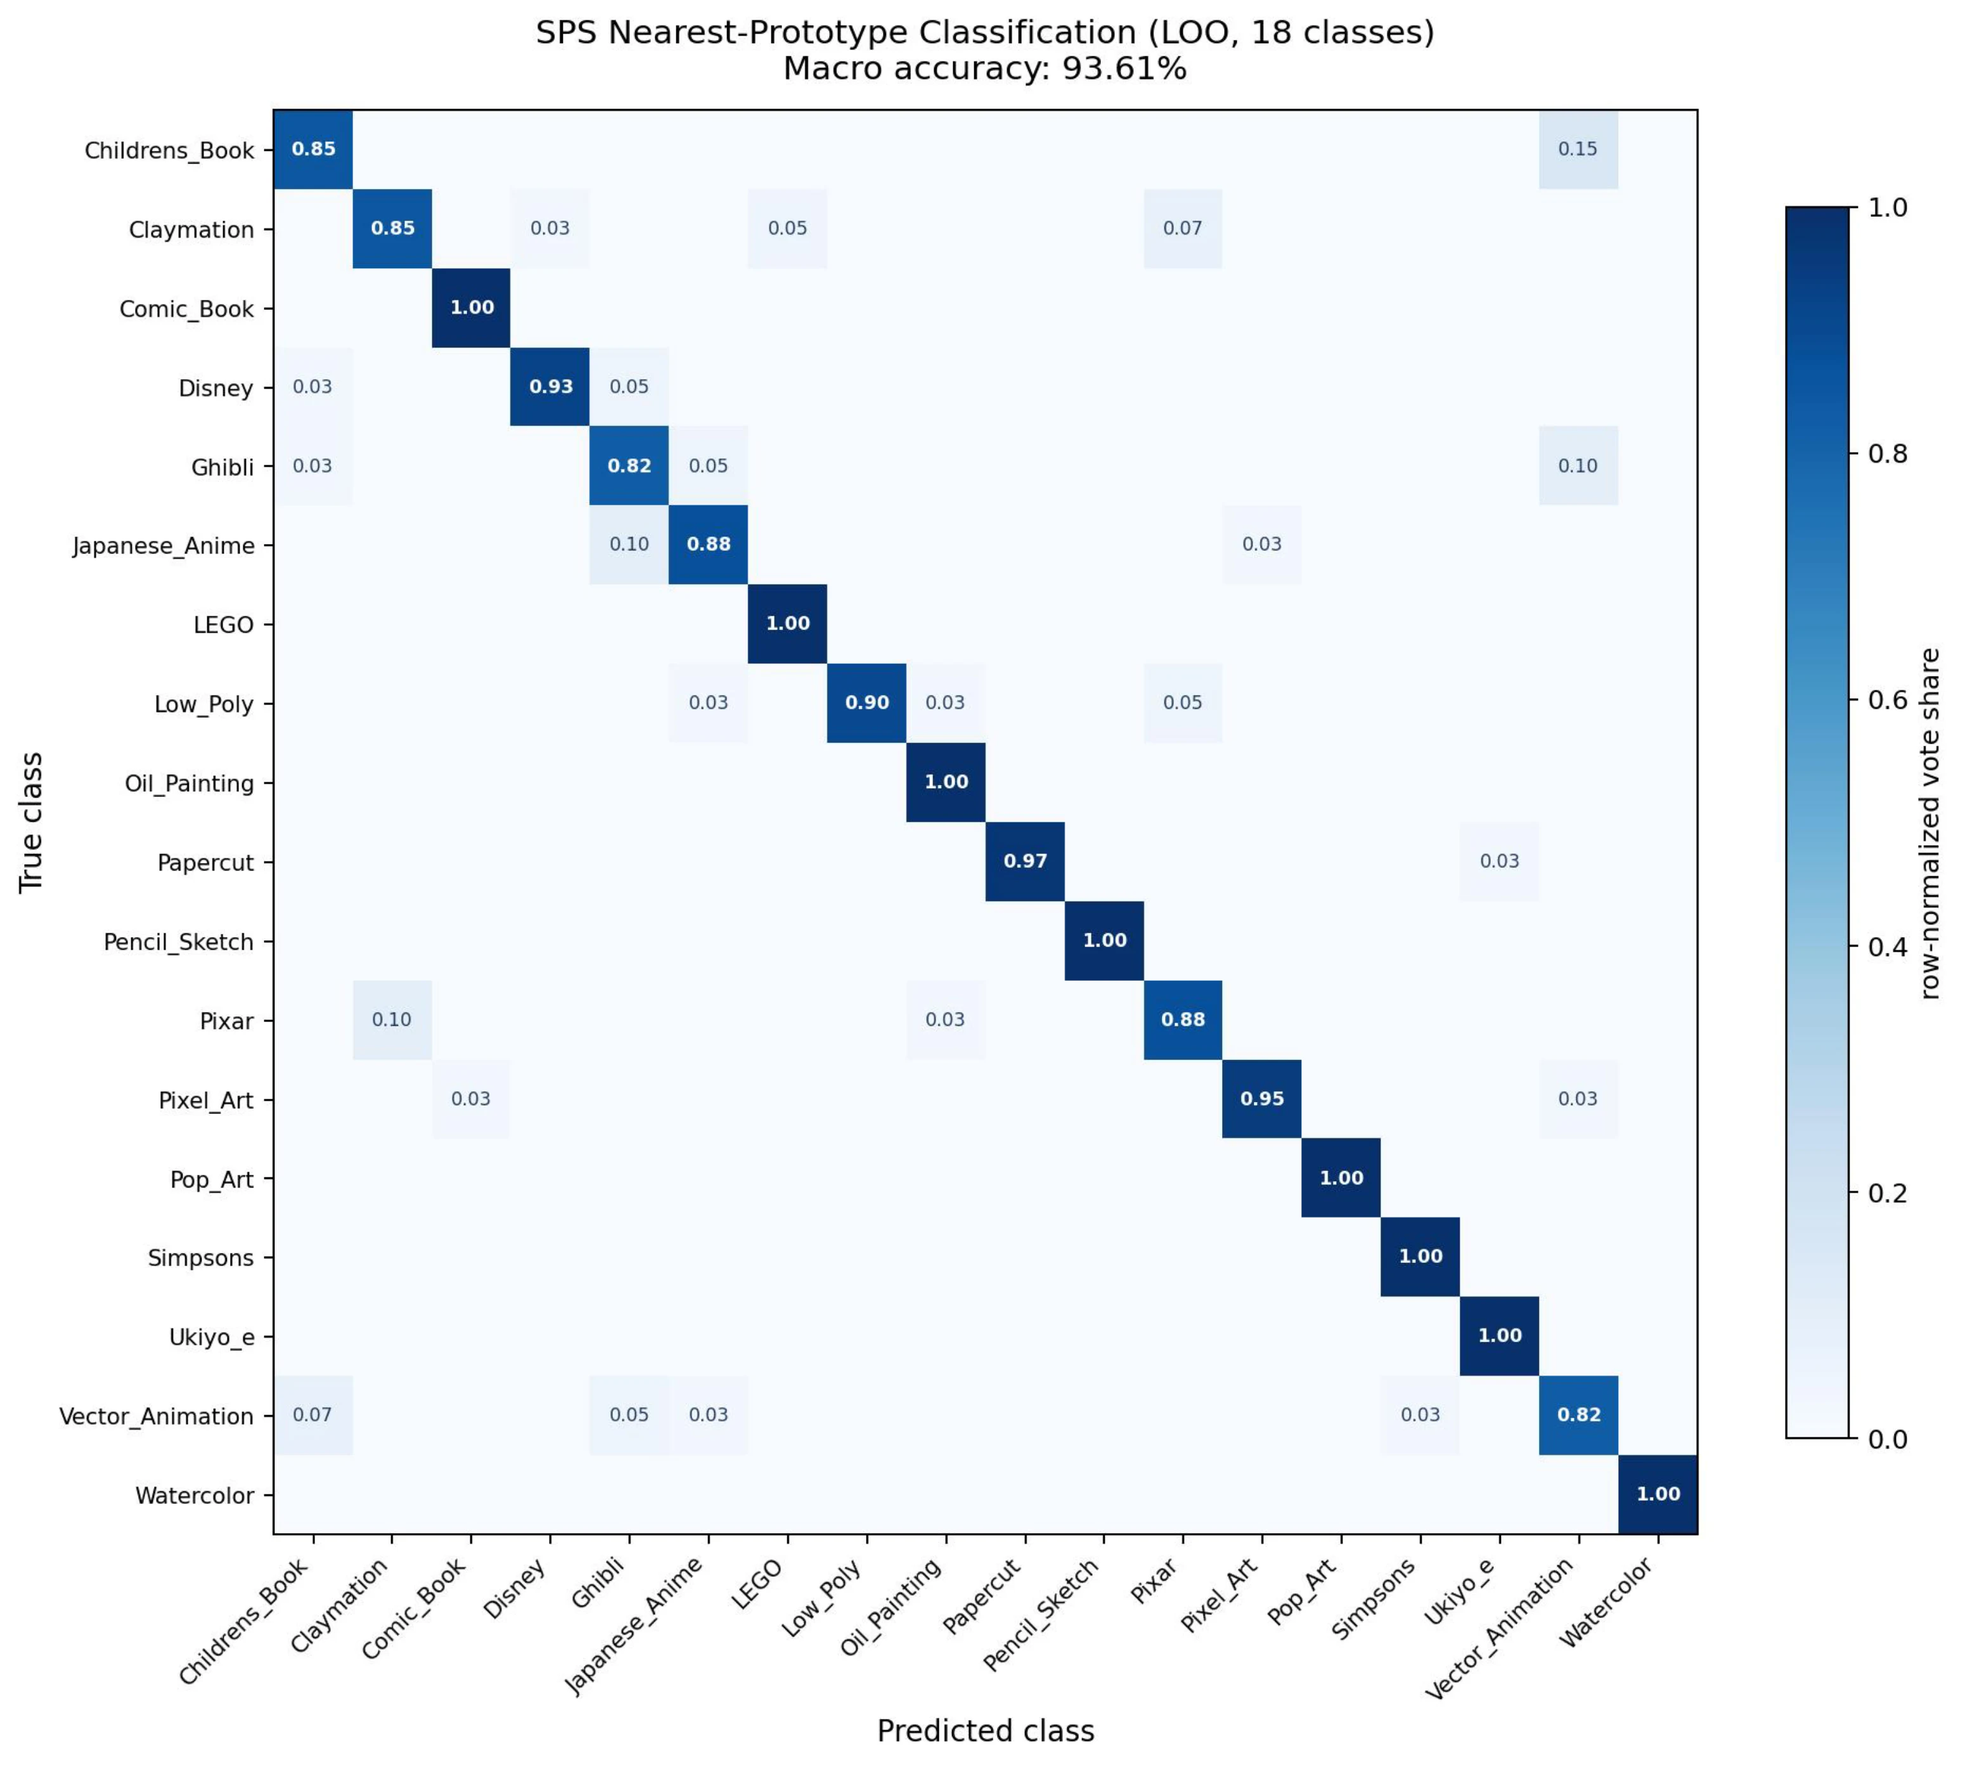
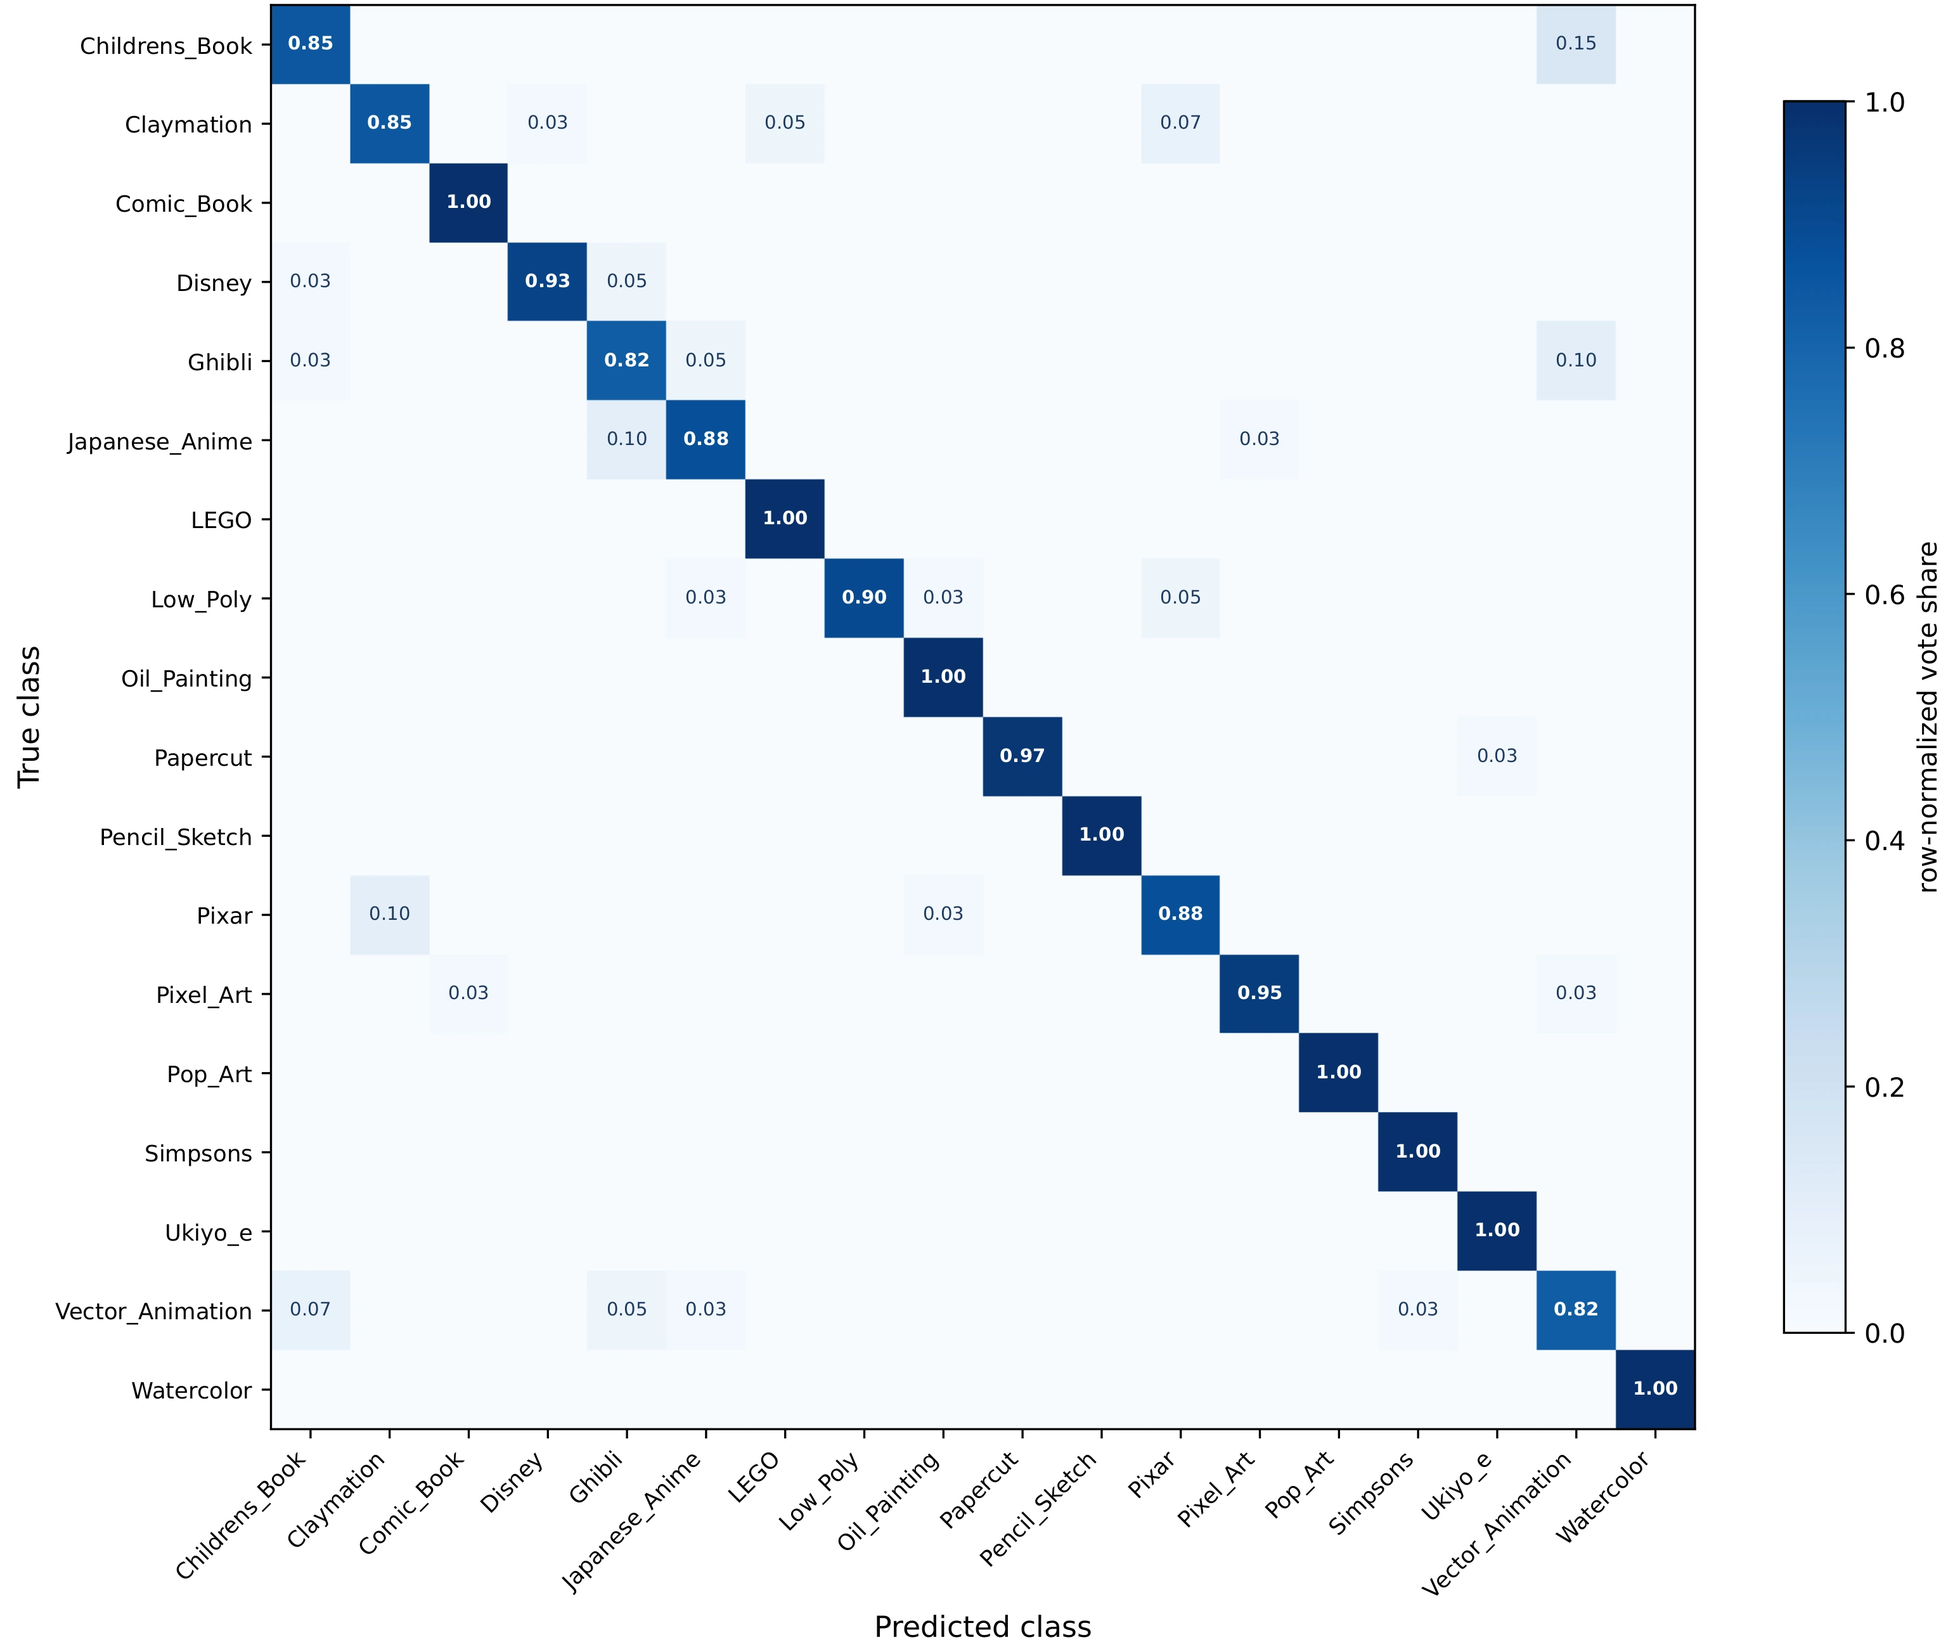
docs: update project page

diff --git a/docs/index.html b/docs/index.html
@@ -105,7 +105,7 @@
           </div>
           <figure class="paper-figure">
             <img src="static/images/figures/data_pipeline.webp" alt="Overview of the LociArt-100K data construction pipeline" loading="lazy" decoding="async">
-            <figcaption><strong>Figure 1.</strong> Source and object-removed videos are globally stylized and filtered, then combined through mask-guided matting to produce foreground- and background-stylized pairs for human verification.</figcaption>
+            <figcaption><strong>Data construction pipeline.</strong> Source and object-removed videos are globally stylized and filtered, then combined through mask-guided matting to produce foreground- and background-stylized pairs for human verification.</figcaption>
           </figure>
           <div class="metric-grid four-up">
             <article class="metric-card"><strong>100K</strong><span>720P video pairs</span><p>Source, mask, instruction, and locally stylized target.</p></article>
@@ -169,7 +169,7 @@
         <p class="section-intro">GRNStyle binds style identities to target regions and combines encoded mask features with explicit geometric support. Source evidence guides content preservation throughout refinement.</p>
         <figure class="paper-figure">
           <img src="static/images/figures/model_pipeline.webp" alt="Overview of GRNStyle" loading="lazy" decoding="async">
-          <figcaption><strong>Figure 2.</strong> (a) Polar style-aware masks bind styles to regions and support multi-region composition. (b) Anchored mask evidence and geometric support are combined with source features through block-wise gating.</figcaption>
+          <figcaption><strong>Overview of GRNStyle.</strong> (a) Polar style-aware masks bind styles to regions and support multi-region composition. (b) Anchored mask evidence and geometric support are combined with source features through block-wise gating.</figcaption>
         </figure>
         <div class="method-grid">
           <article class="method-card">
@@ -205,11 +205,11 @@
               </tbody>
             </table>
           </div>
-          <p class="table-caption"><strong>Table 1.</strong> Component ablation of representation-geometry conditioning (RG) and polar style-aware masks.</p>
+          <p class="table-caption"><strong>Component ablation.</strong> Representation-geometry conditioning (RG) and polar style-aware masks.</p>
         </div>
         <figure class="paper-figure">
           <img src="static/images/figures/mask_conditioning_ablation.webp" alt="Mask-conditioning ablation" loading="lazy" decoding="async">
-          <figcaption><strong>Figure 3.</strong> Representation-geometry conditioning improves spatial localization over raw encoding, while the polar code improves style identity.</figcaption>
+          <figcaption><strong>Mask-conditioning ablation.</strong> Representation-geometry conditioning improves spatial localization over raw encoding, while the polar code improves style identity.</figcaption>
         </figure>
       </div>
     </section>
@@ -222,7 +222,7 @@
           <article class="metric-card"><strong>80</strong><span>source videos</span><p>Each with 81 aligned frames.</p></article>
           <article class="metric-card"><strong>84</strong><span>object-mask units</span><p>Some videos contain two selected subjects.</p></article>
           <article class="metric-card"><strong>168</strong><span>stylization cases</span><p>Foreground and background editing for every unit.</p></article>
-          <article class="metric-card"><strong>93.61%</strong><span>SPS validation</span><p>Macro-averaged nearest-prototype accuracy.</p></article>
+          <article class="metric-card"><strong>93.61%</strong><span>SPS validation</span><p>Macro-averaged video-level accuracy under leave-one-source-out validation.</p></article>
         </div>
         <div class="figure-pair prototype-pair">
           <figure class="paper-figure">
@@ -236,7 +236,7 @@
         </div>
         <div class="metric-grid six-up">
           <article class="metric-card"><strong>SPS</strong><span>style quality</span><p>Similarity to a class-specific prototype bank in CSD feature space.</p></article>
-          <article class="metric-card"><strong>CLIPT</strong><span>text alignment</span><p>Regional alignment between the edited region and the style instruction.</p></article>
+          <article class="metric-card"><strong>CLIPT</strong><span>text alignment</span><p>Regional alignment between the edited region and the canonical style phrase.</p></article>
           <article class="metric-card"><strong>PSNR</strong><span>preservation</span><p>Fidelity to the source outside the intended edit region.</p></article>
           <article class="metric-card"><strong>TC</strong><span>temporal consistency</span><p>Adjacent-frame CLIP feature similarity.</p></article>
           <article class="metric-card"><strong>Style</strong><span>VLM score</span><p>Style correctness, coverage, and cross-frame stability.</p></article>
@@ -284,18 +284,18 @@
                 <tr><th scope="row"><a class="method-link" href="https://github.com/bwchen05/RegionRoute" target="_blank" rel="noopener noreferrer">RegionRoute</a><sup>&ddagger;</sup></th><td>CVPR '26</td><td>0.317</td><td>0.491</td><td>0.154</td><td>0.183</td><td><u>29.38</u></td><td>13.17</td><td>0.955</td><td>2.41</td><td>2.75</td></tr>
                 <tr><th scope="row"><a class="method-link" href="https://github.com/iiiiiiiword/StyleGallery" target="_blank" rel="noopener noreferrer">StyleGallery</a><sup>*&dagger;&ddagger;</sup></th><td>CVPR '26</td><td>0.230</td><td>0.325</td><td>0.146</td><td>0.183</td><td>-</td><td>-</td><td>0.957</td><td>3.39</td><td><u>4.77</u></td></tr>
                 <tr><th scope="row"><a class="method-link" href="https://github.com/coinve200k/CoinVE-200K/tree/main/CoinVE-Edit" target="_blank" rel="noopener noreferrer">CoinVE-Edit</a></th><td>arXiv '26</td><td>0.248</td><td>0.251</td><td>0.153</td><td>0.159</td><td>20.71</td><td>16.76</td><td><u>0.983</u></td><td>3.11</td><td>3.93</td></tr>
-                <tr><th scope="row"><a class="method-link" href="https://seed.bytedance.com/zh/seedance2_5" target="_blank" rel="noopener noreferrer">Seedance 2.5</a></th><td>Jul. 2026</td><td>0.347</td><td>0.358</td><td><strong>0.173</strong></td><td><u>0.175</u></td><td>18.50</td><td>18.76</td><td><strong>0.984</strong></td><td>3.98</td><td>2.40</td></tr>
+                <tr><th scope="row"><a class="method-link" href="https://seed.bytedance.com/zh/seedance2_5" target="_blank" rel="noopener noreferrer">Seedance 2.5</a></th><td>Commercial</td><td>0.347</td><td>0.358</td><td><strong>0.173</strong></td><td><u>0.175</u></td><td>18.50</td><td>18.76</td><td><strong>0.984</strong></td><td>3.98</td><td>2.40</td></tr>
                 <tr><th scope="row"><a class="method-link" href="https://github.com/ali-vilab/VACE" target="_blank" rel="noopener noreferrer">VACE-1.3B</a> (our FT)</th><td>-</td><td><u>0.386</u></td><td><u>0.676</u></td><td>0.155</td><td><u>0.185</u></td><td>25.43</td><td>25.49</td><td>0.980</td><td><u>4.52</u></td><td>4.56</td></tr>
                 <tr class="highlight-row"><th scope="row">GRNStyle-2B (ours)</th><td>-</td><td><strong>0.407</strong></td><td><strong>0.705</strong></td><td><u>0.160</u></td><td><strong>0.199</strong></td><td>25.92</td><td><u>26.15</u></td><td><u>0.983</u></td><td><strong>4.62</strong></td><td>4.64</td></tr>
               </tbody>
             </table>
           </div>
-          <p class="table-caption"><strong>Table 2.</strong> Comparison on the LociArt Benchmark. fg/bg denote editing the target mask and its complement. <sup>&dagger;</sup> Direct mask-compositing methods omit PSNR because non-edited pixels are copied. <sup>&ddagger;</sup> Image-based methods. FT denotes local-stylization fine-tuning.</p>
+          <p class="table-caption"><strong>Benchmark comparison.</strong> fg/bg denote editing the target mask and its complement. <sup>*</sup> Training-free methods. <sup>&dagger;</sup> Direct mask-compositing methods omit PSNR because non-edited pixels are copied. <sup>&ddagger;</sup> Image-based methods. FT denotes local-stylization fine-tuning.</p>
         </div>
           <div class="result-highlights">
-            <div class="result-highlight"><strong>0.705</strong><span>SPS background</span><small>Best in Table 2</small></div>
-            <div class="result-highlight"><strong>0.199</strong><span>CLIPT background</span><small>Best in Table 2</small></div>
-            <div class="result-highlight"><strong>4.62</strong><span>VLM Style</span><small>Highest in Table 2</small></div>
+            <div class="result-highlight"><strong>0.705</strong><span>SPS background</span><small>Best overall</small></div>
+            <div class="result-highlight"><strong>0.199</strong><span>CLIPT background</span><small>Best overall</small></div>
+            <div class="result-highlight"><strong>4.62</strong><span>VLM Style</span><small>Highest overall</small></div>
             <div class="result-highlight"><strong>0.983</strong><span>Temporal consistency</span><small>Near-best</small></div>
           </div>
         </div>
@@ -317,13 +317,13 @@
             <div>
               <p class="kicker">Human evaluation</p>
               <h3>User study</h3>
-              <p>Twenty participants rated 168 matched cases for style fidelity and background preservation.</p>
+              <p>Twenty participants rated a 160-case subset (16 cases per style) for style fidelity and background preservation.</p>
             </div>
           </div>
           <div class="split-layout">
             <figure class="paper-figure">
               <img src="static/images/figures/human_evaluation.webp" alt="Human evaluation of style fidelity and background preservation" loading="lazy" decoding="async">
-              <figcaption><strong>Figure 4.</strong> Human evaluation with 20 participants on 168 cases. GRNStyle achieves the highest mean ratings for style fidelity (4.34) and background preservation (4.47).</figcaption>
+              <figcaption><strong>Human evaluation.</strong> Twenty participants on 160 cases across ten styles. GRNStyle achieves the highest mean ratings for style fidelity (4.34) and background preservation (4.47).</figcaption>
             </figure>
             <div class="copy-panel">
               <p class="kicker">Key findings</p>
@@ -332,7 +332,7 @@
               <ul class="check-list">
                 <li><strong>4.34</strong> mean style fidelity</li>
                 <li><strong>4.47</strong> mean background preservation</li>
-                <li><strong>20</strong> participants across 168 cases</li>
+                <li><strong>20</strong> participants across 160 cases</li>
               </ul>
             </div>
           </div>
@@ -343,7 +343,7 @@
             <div>
               <p class="kicker">Replay-free style expansion</p>
               <h3>New style without replay</h3>
-              <p>Expanding from 10 to 15 classes without replaying old classes preserves the original styles and adds the five new styles through polar conditioning.</p>
+              <p>Expanding from 10 to 15 classes without replaying old classes retains the original styles with substantially less forgetting and adds the five new styles through polar conditioning.</p>
             </div>
           </div>
           <div class="table-block">
@@ -365,7 +365,7 @@
               </tbody>
             </table>
           </div>
-          <p class="table-caption"><strong>Table 3.</strong> Replay-free style expansion from 10 to 15 classes. Expanded models are trained only on the five new classes.</p>
+          <p class="table-caption"><strong>Replay-free style expansion.</strong> Expanded models are trained only on the five new classes. Retention and acquisition are evaluated on 1,680 original-style and 840 new-style cases, respectively.</p>
         </div>
         </div>
       </div>

diff --git a/README.md b/README.md
@@ -7,7 +7,7 @@ Official project page and method overview for <em>LociArt: A Unified Paradigm fo
 </p>
 
 <a href="https://arxiv.org/abs/26xx.xxxxx"><img src="https://img.shields.io/badge/arXiv-26xx.xxxxx-b31b1b" alt="arXiv"></a>
-<a href="https://lociart-page.pages.dev/" target="_blank" rel="noopener noreferrer"><img src="https://img.shields.io/badge/%F0%9F%90%B3-Project%20Page-blue" alt="Project page"></a>
+<a href="https://higherhu.github.io/lociart/" target="_blank" rel="noopener noreferrer"><img src="https://img.shields.io/badge/%F0%9F%90%B3-Project%20Page-blue" alt="Project page"></a>
 <a href="https://huggingface.co/HigherHu/GRNStyle"><img src="https://img.shields.io/badge/%F0%9F%A4%97%20Hugging%20Face-Model(TBD)-yellow" alt="GRNStyle model on Hugging Face, coming soon"></a>
 <a href="https://huggingface.co/datasets/HigherHu/LociArt-100K"><img src="https://img.shields.io/badge/%F0%9F%A4%97%20Hugging%20Face-LociArt--100K(TBD)-orange" alt="LociArt-100K dataset on Hugging Face, coming soon"></a>
 <a href="https://www.apache.org/licenses/LICENSE-2.0"><img src="https://img.shields.io/badge/License-Apache%202.0-blue.svg" alt="Apache 2.0 license"></a>
@@ -94,9 +94,16 @@ LociArt-100K is a large-scale paired dataset for free-style local video stylizat
 - **Broad mask coverage:** foreground mask ratios range from below 5% to over 60%, with a median of 13.1%.
 - **Temporal alignment:** source, mask, and target videos maintain frame correspondence for consistent local editing.
 
-<p align="center">
-<img src="docs/static/images/figures/data_style_pie.webp" height="350" alt="Style-category distribution in LociArt-100K"> &nbsp;&nbsp; <img src="docs/static/images/figures/data_mask_histogram.webp" height="350" alt="Foreground mask-area distribution in LociArt-100K">
-</p>
+<table align="center" width="100%">
+  <tr>
+    <td width="39.05%" align="center" valign="middle">
+      <img src="docs/static/images/figures/data_style_pie.webp" width="100%" alt="Style-category distribution in LociArt-100K">
+    </td>
+    <td width="60.95%" align="center" valign="middle">
+      <img src="docs/static/images/figures/data_mask_histogram.webp" width="100%" alt="Foreground mask-area distribution in LociArt-100K">
+    </td>
+  </tr>
+</table>
 
 <p align="center"><em>Style-category distribution and foreground mask-area distribution in LociArt-100K.</em></p>
 
